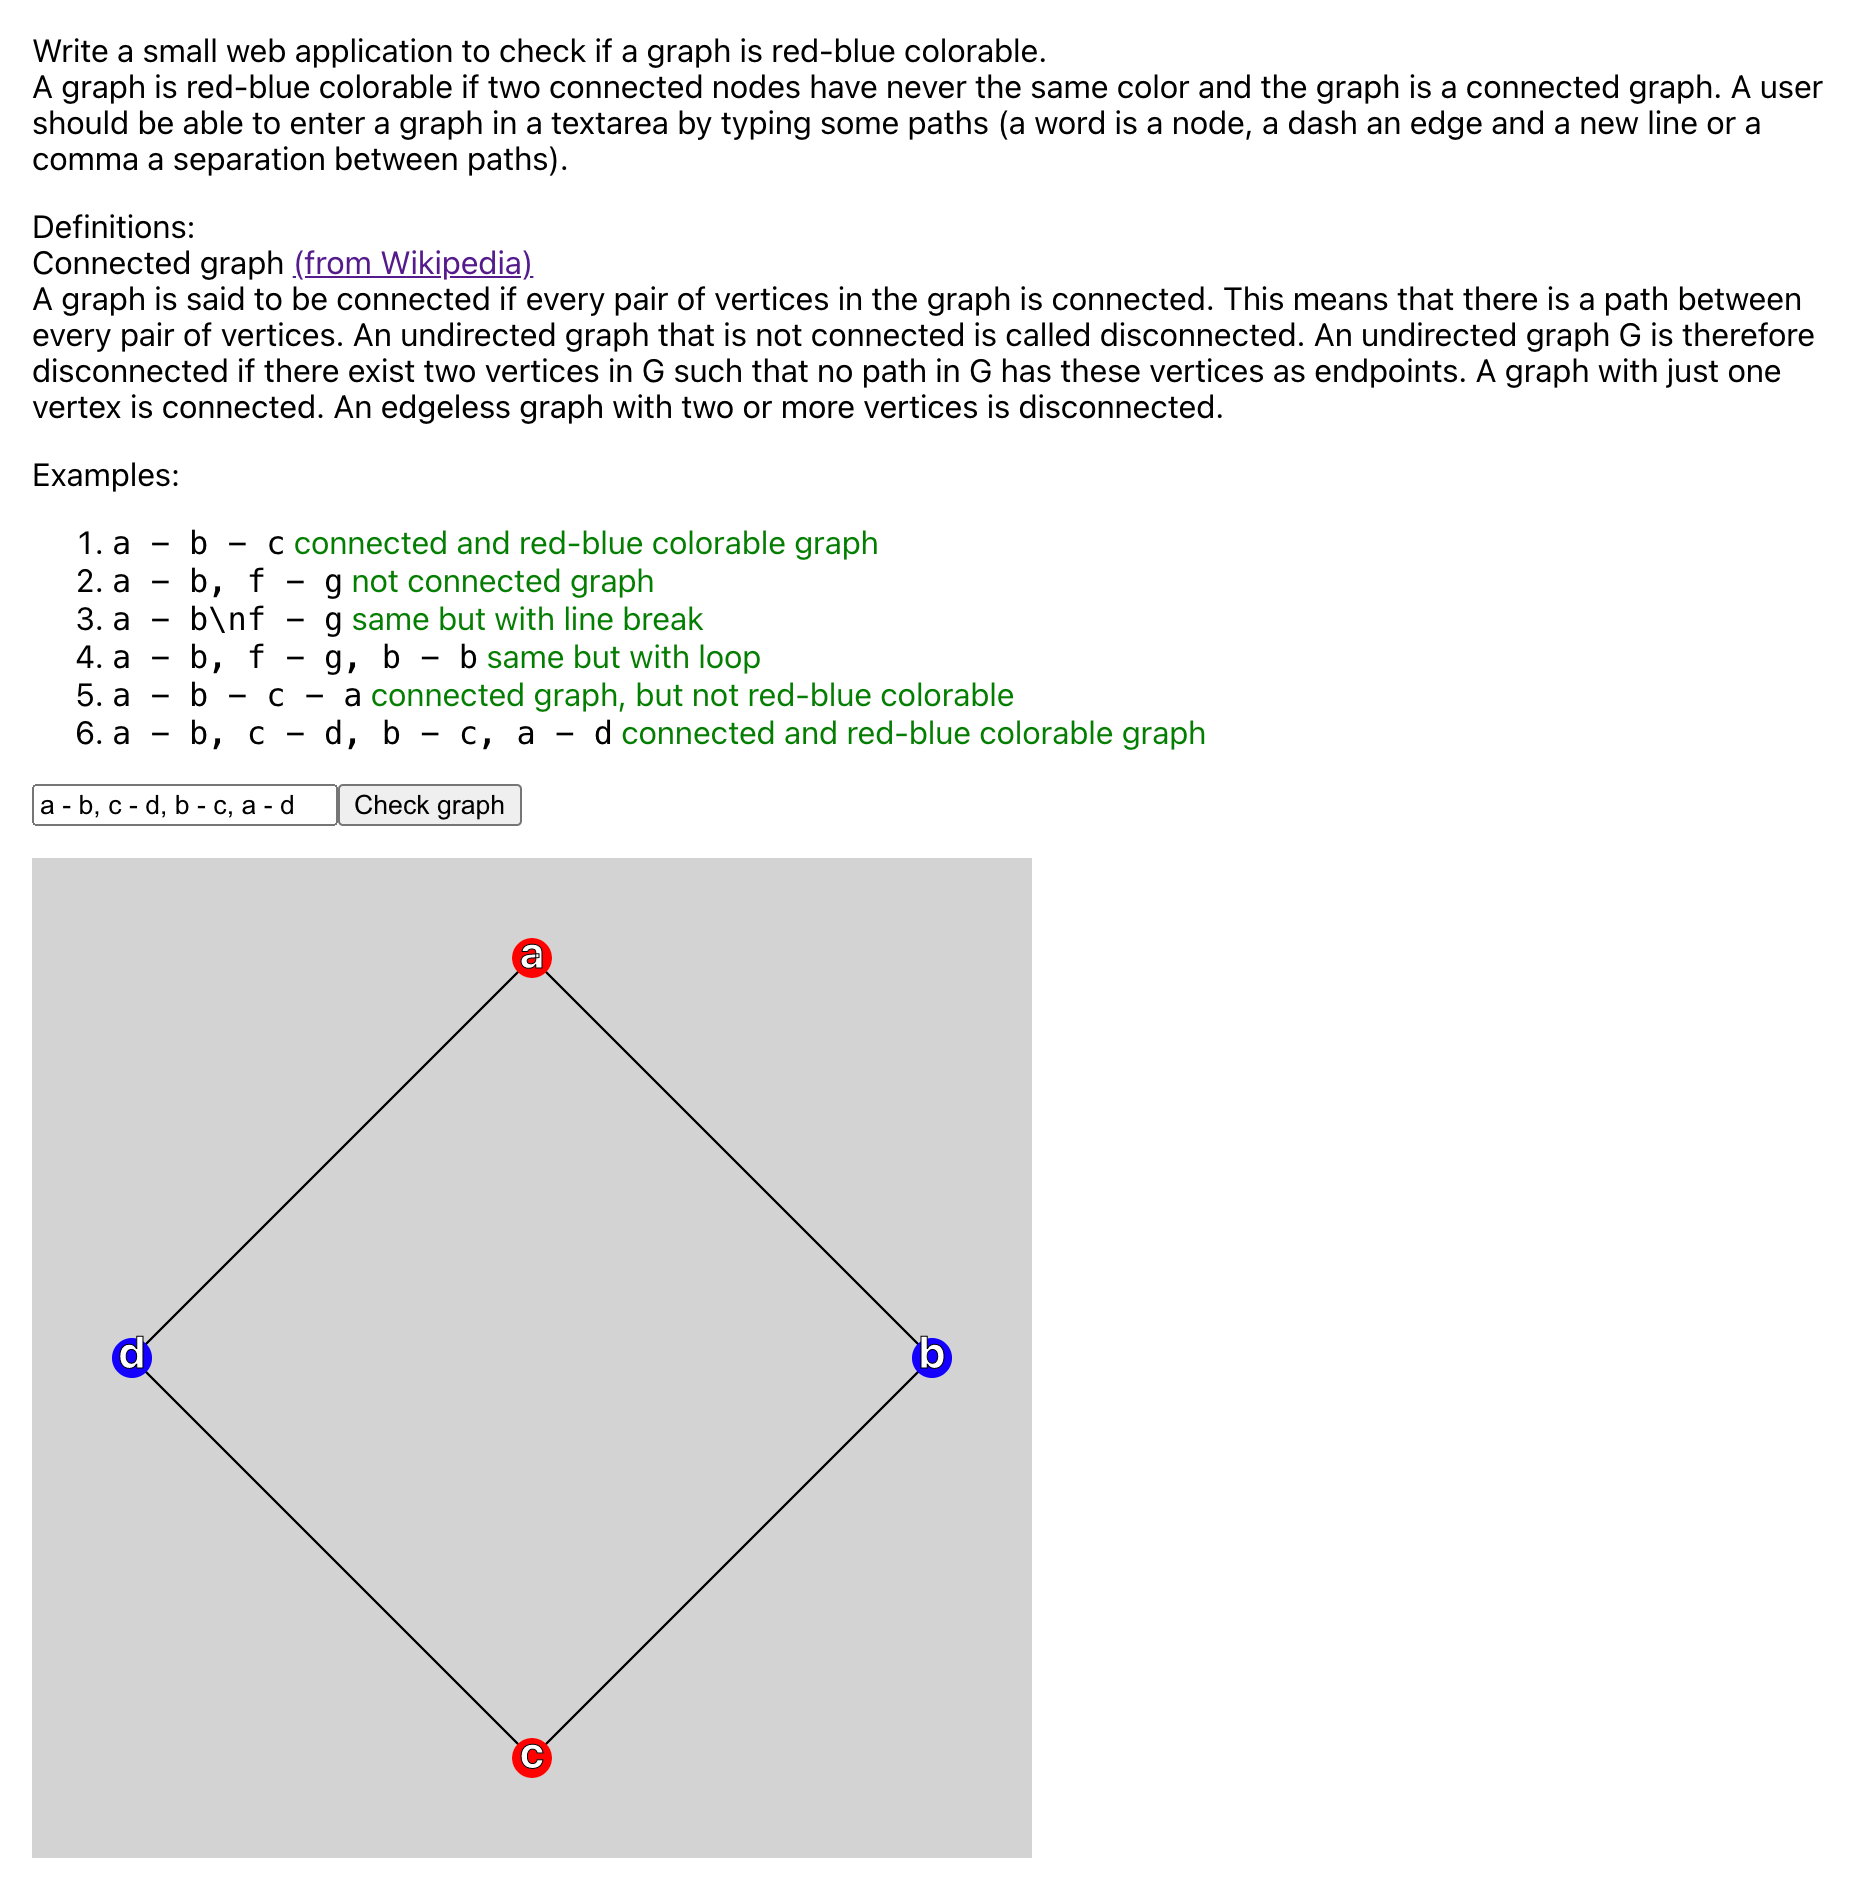
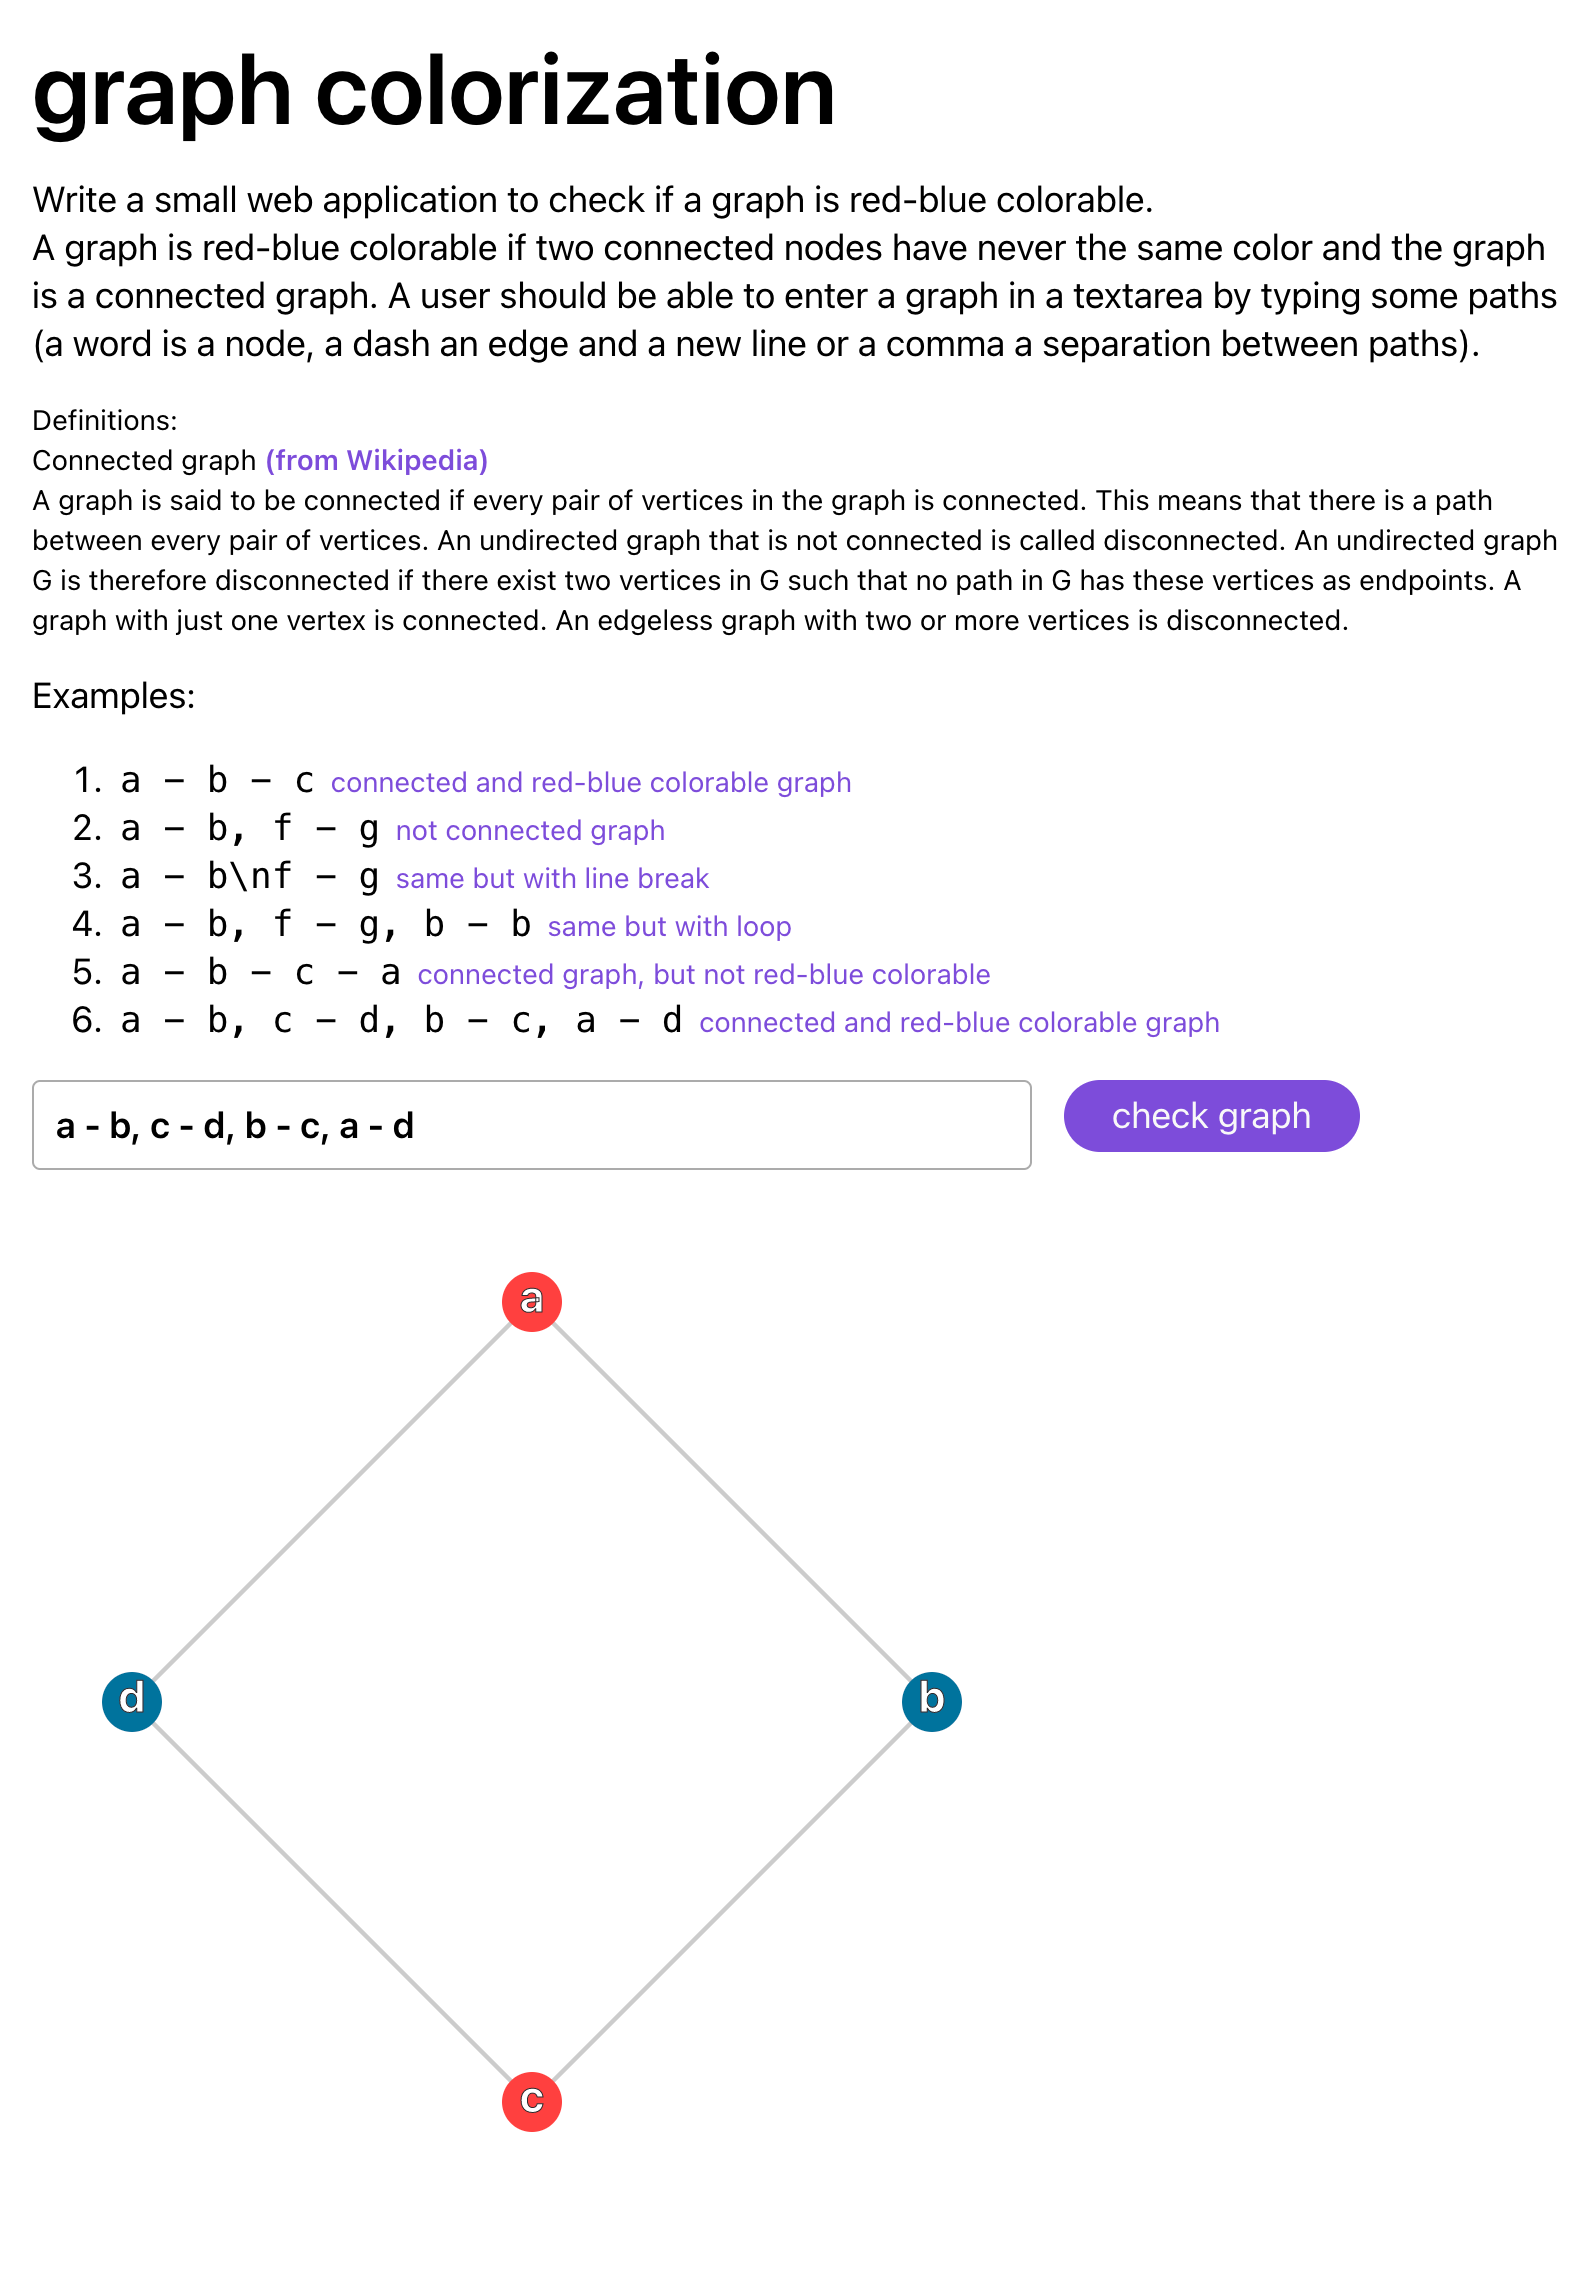
Visual improvements

diff --git a/src/App.js b/src/App.js
@@ -1,3 +1,4 @@
+import { Anchor, Grommet, Heading, Text } from 'grommet';
 import './App.css';
 import { Container } from './container/Container';
 import { Examples } from './examples/Examples';
@@ -5,18 +6,21 @@ import { Examples } from './examples/Examples';
 const App = () => {
   return (
     <div className="App">
-      <p className="description">
-        Write a small web application to check if a graph is red-blue colorable.<br />
-        A graph is red-blue colorable if two connected nodes have never the same color and the graph is a connected graph. A user should be able to enter a graph in a textarea by typing some paths (a word is a node, a dash an edge and a new line or a comma a separation between paths).
-      </p>
+      <Grommet theme={{ global: { focus: { outline: { color: 'brand' } } } }}>
+        <Heading className="description">graph colorization 🔵➖🔴</Heading>
+        <Text className="description" as="div" maxWidth="900px" size="medium">
+          Write a small web application to check if a graph is red-blue colorable.<br />
+          A graph is red-blue colorable if two connected nodes have never the same color and the graph is a connected graph. A user should be able to enter a graph in a textarea by typing some paths (a word is a node, a dash an edge and a new line or a comma a separation between paths).
+        </Text>
 
-      <p className="description">
-        Definitions:<br />
-        Connected graph <a href="https://en.wikipedia.org/wiki/Connectivity_(graph_theory)">(from Wikipedia)</a><br />
-        A graph is said to be connected if every pair of vertices in the graph is connected. This means that there is a path between every pair of vertices. An undirected graph that is not connected is called disconnected. An undirected graph G is therefore disconnected if there exist two vertices in G such that no path in G has these vertices as endpoints. A graph with just one vertex is connected. An edgeless graph with two or more vertices is disconnected.
-      </p>
-      <Examples />
-      <Container />
+        <Text className="description" as="div" maxWidth="900px" size="small">
+          Definitions:<br />
+          Connected graph <Anchor href="https://en.wikipedia.org/wiki/Connectivity_(graph_theory)" label="(from Wikipedia)" /><br />
+          A graph is said to be connected if every pair of vertices in the graph is connected. This means that there is a path between every pair of vertices. An undirected graph that is not connected is called disconnected. An undirected graph G is therefore disconnected if there exist two vertices in G such that no path in G has these vertices as endpoints. A graph with just one vertex is connected. An edgeless graph with two or more vertices is disconnected.
+        </Text>
+        <Examples />
+        <Container />
+      </Grommet>
     </div>
   );
 }

diff --git a/src/graph/Graph.js b/src/graph/Graph.js
@@ -3,6 +3,7 @@ import './Graph.css';
 
 export class Graph extends React.Component {
   render() {
+    const isMac = navigator.platform.indexOf('Mac') > -1 || navigator.userAgent.indexOf('Mac') > -1;
     const nodes = Object.keys(this.props.colorization ?? []);
     const coords = {};
     nodes.forEach((node, i) => {
@@ -13,7 +14,7 @@ export class Graph extends React.Component {
     });
 
     return (
-      <div>
+      <div className="graph">
         <svg width={500} height={500} viewBox="0 0 500 500">
           {
             nodes.map((node, i) => {
@@ -24,7 +25,8 @@ export class Graph extends React.Component {
                     key={'link-' + node + '-' + connectedNode}
                     x1={coords[node].x} y1={coords[node].y}
                     x2={coords[connectedNode].x} y2={coords[connectedNode].y}
-                    stroke="black"
+                    stroke="#CCCCCC"
+                    strokeWidth={2}
                   />
                 );
               });
@@ -35,14 +37,18 @@ export class Graph extends React.Component {
               // Render nodes itself
               return (
                 <g key={'node-' + node}>
-                  <circle
-                    stroke={this.props.colorization[node] ? 'red' : 'blue'}
-                    cx={coords[node].x}
-                    cy={coords[node].y}
-                    r={5}
-                    strokeWidth={10}
-                  ></circle>
-                  <text textAnchor="middle" fill="white" stroke="black" strokeWidth="0.5" fontSize="22" fontWeight="bold" x={coords[node].x} y={coords[node].y + 5}>{node}</text>
+                  {
+                    isMac ?
+                      <text textAnchor="middle" fontSize="30" fontWeight="bold" x={coords[node].x} y={coords[node].y+11}>{this.props.colorization[node] ? '🔴' : '🔵'}</text> :
+                      <circle
+                        stroke={this.props.colorization[node] ? '#FF4040' : '#00739D'}
+                        cx={coords[node].x}
+                        cy={coords[node].y}
+                        r={5}
+                        strokeWidth={20}
+                      ></circle>
+                  }
+                  <text textAnchor="middle" fill="white" stroke="#2E282A" strokeWidth="0.5" fontSize="22" fontWeight="bold" x={coords[node].x} y={coords[node].y + 5}>{node}</text>
                 </g>
               );
             })

diff --git a/src/examples/Examples.js b/src/examples/Examples.js
@@ -1,29 +1,29 @@
+import { Text } from 'grommet';
 import React from 'react';
 import './Examples.css';
 
-export class Examples extends React.Component {
-  render() {
-    const examples = [
-      { value: 'a - b - c', comment: 'connected and red-blue colorable graph' },
-      { value: 'a - b, f - g', comment: 'not connected graph' },
-      { value: 'a - b\\nf - g', comment: 'same but with line break' },
-      { value: 'a - b, f - g, b - b', comment: 'same but with loop' },
-      { value: 'a - b - c - a', comment: 'connected graph, but not red-blue colorable' },
-      { value: 'a - b, c - d, b - c, a - d', comment: 'connected and red-blue colorable graph' },
-    ];
+export const Examples = () => {
+  const examples = [
+    { value: 'a - b - c', comment: 'connected and red-blue colorable graph' },
+    { value: 'a - b, f - g', comment: 'not connected graph' },
+    { value: 'a - b\\nf - g', comment: 'same but with line break' },
+    { value: 'a - b, f - g, b - b', comment: 'same but with loop' },
+    { value: 'a - b - c - a', comment: 'connected graph, but not red-blue colorable' },
+    { value: 'a - b, c - d, b - c, a - d', comment: 'connected and red-blue colorable graph' },
+    { value: 'a-b,c-d,b-c,a-d,e-f,a-f,f-g,b-g,b-e,c-f,d-g,g-h,e-h,a-h,c-h,d-e', comment: 'connected and red-blue colorable graph' },
+  ];
 
-    return (
-      <div>
-        <span>Examples:</span>
-        <ol>
-          {examples.map((example, i) => (
-            <li key={`example-${i}`}>
-              <code onClick={() => navigator.clipboard.writeText(example.value)} title="Click to copy">{example.value}</code>
-              <span> {example.comment}</span><br />
-            </li>
-          ))}
-        </ol>
-      </div>
-    );
-  }
+  return (
+    <div>
+      <Text>Examples:</Text>
+      <ol>
+        {examples.map((example, i) => (
+          <li key={`example-${i}`}>
+            <code onClick={() => navigator.clipboard.writeText(example.value)} title="Click to copy">{example.value}</code>
+            <Text size="small" color="brand"> {example.comment}</Text>
+          </li>
+        ))}
+      </ol>
+    </div>
+  );
 }

diff --git a/src/container/Container.js b/src/container/Container.js
@@ -1,3 +1,4 @@
+import { Button, TextInput } from 'grommet';
 import React from 'react';
 import { Error } from '../error/Error';
 import { Graph } from '../graph/Graph';
@@ -28,9 +29,17 @@ export class Container extends React.Component {
   render() {
     return (
       <div>
-        <input type="text" onChange={(event) => this.setValue(event.target.value)} />
-        <button disabled={this.state.buttonDisabled} onClick={this.checkGraph}>Check graph</button>
-        {this.state.error}
+        <div className="wrapper">
+          <div className="input">
+            <TextInput
+              placeholder="enter graph description"
+              onChange={(event) => this.setValue(event.target.value)}
+              dropHeight="small"
+            />
+            {this.state.error}
+          </div>
+          <Button className="button" disabled={this.state.buttonDisabled} onClick={this.checkGraph} primary label="check graph" />
+        </div>
         {this.state.graph}
       </div>
     );

diff --git a/public/index.html b/public/index.html
@@ -7,9 +7,8 @@
     <meta name="theme-color" content="#000000" />
     <meta
       name="description"
-      content="Web site created using create-react-app"
+      content="graph colorization"
     />
-    <link rel="apple-touch-icon" href="%PUBLIC_URL%/logo192.png" />
     <!--
       manifest.json provides metadata used when your web app is installed on a
       user's mobile device or desktop. See https://developers.google.com/web/fundamentals/web-app-manifest/
@@ -24,7 +23,7 @@
       work correctly both with client-side routing and a non-root public URL.
       Learn how to configure a non-root public URL by running `npm run build`.
     -->
-    <title>React App</title>
+    <title>graph colorization</title>
   </head>
   <body>
     <noscript>You need to enable JavaScript to run this app.</noscript>

diff --git a/src/error/Error.js b/src/error/Error.js
@@ -1,8 +1,7 @@
+import { Text } from 'grommet';
 import React from 'react';
 import './Error.css';
 
 export class Error extends React.Component {
-  render() {
-    return (<div className="error" style={{ color: "red" }}>{this.props.error}</div>);
-  }
+  render = () => (<Text color="status-error" weight="bolder">{this.props.error}</Text>);
 }

diff --git a/src/examples/Examples.css b/src/examples/Examples.css
@@ -1,8 +1,11 @@
+li > code {
+  padding: 0 4px;
+}
+
 li > code:hover {
-  background-color: bisque;
+  background-color: #ffca3aff;
 }
 
 li > span {
-  color: green;
   user-select: none;
 }

diff --git a/src/container/Container.css b/src/container/Container.css
@@ -1,0 +1,13 @@
+.wrapper {
+  display: flex;
+}
+
+.input {
+  display: inline-block;
+  margin-right: 16px;
+  width: 500px;
+}
+
+.button {
+  height: min-content;
+}

diff --git a/src/App.css b/src/App.css
@@ -1,7 +1,9 @@
 .App {
-  padding: 0 16px;
+  padding: 16px;
+  max-width: 900px;
 }
 
 .description {
-  max-width: 900px;
+  margin-bottom: 16px;
+  margin-top: 0;
 }

diff --git a/src/graph/Graph.css b/src/graph/Graph.css
@@ -1,4 +1,8 @@
+.graph {
+  display: flex;
+  justify-content: center;
+}
+
 svg {
-  background-color: lightgray;
   margin: 16px 0;
 }

diff --git a/src/error/Error.css b/src/error/Error.css
@@ -1,3 +1,4 @@
 .error {
+  display: block;
   margin: 8px 0;
 }
